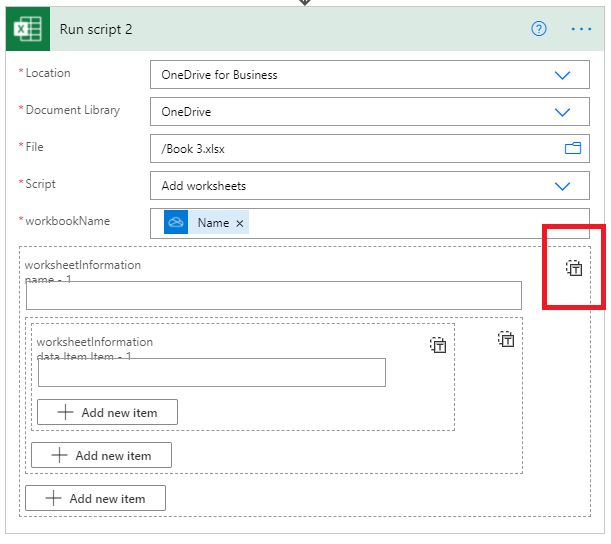
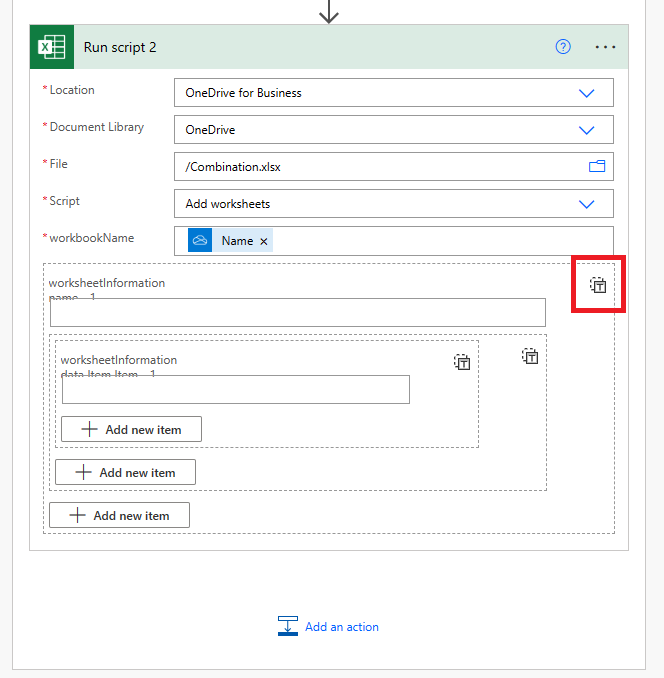
[excel] (Samples) Update Combine Workbooks sample with Troubleshooting guidance (#562)
* Update combine workbooks sample with Troubleshooting guidance

* Grammar fix

* Fix capitalization

* Update docs/resources/samples/combine-worksheets-into-single-workbook.md

* Fix link

diff --git a/docs/resources/samples/combine-worksheets-into-single-workbook.md b/docs/resources/samples/combine-worksheets-into-single-workbook.md
@@ -1,7 +1,7 @@
 ---
 title: Combine workbooks into a single workbook
 description: Learn how to use Office Scripts and Power Automate to create merge worksheets from other workbooks into a single workbook.
-ms.date: 09/17/2021
+ms.date: 12/21/2022
 ms.localizationpriority: medium
 ---
 
@@ -12,13 +12,15 @@ This sample shows how to pull data from multiple workbooks into a single, centra
 > [!IMPORTANT]
 > This sample only copies the values from the other workbooks. It does not preserve formatting, charts, tables, or other objects.
 
-## Scenario
+## Solution
 
-1. Create a new Excel file in your OneDrive and add two scripts from this sample to it.
-1. Create a folder in your OneDrive and add one or more workbooks with data to it.
-1. Build a flow to get all the files that folder.
-1. Use the **Return worksheet data** script to get the data from every worksheet in each of the workbooks.
-1. Use the **Add worksheets** script to create a new worksheet in a single workbook for every worksheet in all the other files.
+1. Create a new Excel file in your OneDrive. The file name "Combination.xlsx" is used in this sample.
+1. Create and save the two scripts from this sample.
+1. Create a folder in your OneDrive and add one or more workbooks with data to it. The folder name "output" is used in this sample.
+1. Build a flow (as described in the [Power Automate flow](#power-automate-flow-combine-worksheets-into-a-single-workbook) section of this article) to perform these steps:
+    1. Get all the files the "output" folder.
+    1. Use the **Return worksheet data** script to get the data from every worksheet in each of the workbooks.
+    1. Use the **Add worksheets** script to create a new worksheet in the "Combination.xlsx" workbook for every worksheet in all the other files.
 
 ## Sample code: Return worksheet data
 
@@ -81,22 +83,21 @@ interface WorksheetData {
 
 1. Sign into [Power Automate](https://flow.microsoft.com) and create a new **Instant cloud flow**.
 1. Choose **Manually trigger a flow** and select **Create**.
-1. Get all the files in the folder. In this example, we'll use a folder named "output". Add a **New step** that uses the **OneDrive for Business** connector and the **List files in folder** action. Provide the folder path that contains the .csv files.
-    * **Folder**: /output
+1. Add a **New step** to get all the workbooks you want to combine from their folder. Use the **OneDrive for Business** connector and the **List files in folder** action. For the **Folder** field, use the file picker to select the "output" folder.
 
     :::image type="content" source="../../images/combine-worksheets-flow-1.png" alt-text="The completed OneDrive for Business connector in Power Automate.":::
-1. Run the **Return worksheet data** script to get all the data from each of the workbooks. Add the **Excel Online (Business)** connector with the **Run script** action. Use the following values for the action. Note that when you add the *Id* for the file, Power Automate will wrap the action in an **Apply to each** control, so the action will be performed on every file.
+1. Add a **New step** to run the **Return worksheet data** script to get all the data from each of the workbooks. Use the **Excel Online (Business)** connector with the **Run script** action. Use the following values for the action. Note that when you add the *Id* for the file, Power Automate will wrap the action in an **Apply to each** control, so the action will be performed on every file.
     * **Location**: OneDrive for Business
     * **Document Library**: OneDrive
     * **File**: *Id* (dynamic content from **List files in folder**)
     * **Script**: Return worksheet data
-1. Run the **Add worksheets** script on the new Excel file you created. This will add the data from all the other workbooks. After the previous **Run script** action and inside the **Apply to each** control, add an **Excel Online (Business)** connector with the **Run script** action. Use the following values for the action.
+1. Add a **New step** to run the **Add worksheets** script on the new Excel file you created. This will add the data from all the other workbooks. After the previous **Run script** action and inside the **Apply to each** control, add an **Excel Online (Business)** connector with the **Run script** action. Use the following values for the action.
     * **Location**: OneDrive for Business
     * **Document Library**: OneDrive
-    * **File**: Your file
+    * **File**: "Combination.xlsx" (your file, as selected by the file picker)
     * **Script**: Add worksheets
     * **workbookName**: *Name* (dynamic content from **List files in folder**)
-    * **worksheetInformation** (after selecting the **Switch to input entire array** button, see the note following the next image): *result* (dynamic content from **Run script**)
+    * **worksheetInformation** (see the note following the next image): *result* (dynamic content from **Run script**)
 
     :::image type="content" source="../../images/combine-worksheets-flow-2.png" alt-text="The two Run script actions inside the Apply to each control.":::
     > [!NOTE]
@@ -104,4 +105,15 @@ interface WorksheetData {
     >
     > :::image type="content" source="../../images/combine-worksheets-flow-3.png" alt-text="The button to switch to input an entire array in a control field input box.":::
 1. Save the flow. Use the **Test** button on the flow editor page or run the flow through your **My flows** tab. Be sure to allow access when prompted.
-1. Your Excel file should now have new worksheets.
+1. The "Combination.xlsx" file should now have new worksheets.
+
+## Troubleshooting
+
+- **A resource with the same name or identifier already exists**: This error likely indicates the "Combination.xlsx" workbook already has a worksheet with the same name. This will happen if you run the flow multiple times with the same workbooks. Create a new workbook each time to store the combined data or use different file names in the "output" folder.
+- **The argument is invalid or missing or has an incorrect format**: This error can mean that the generated  worksheet name doesn't meet [Excel's requirements](https://support.microsoft.com/office/rename-a-worksheet-3f1f7148-ee83-404d-8ef0-9ff99fbad1f9). This is likely because the name is too long. One solution is to replace the code in "Add worksheets" that calls `addWorksheet` with something that shortens the string. Since the workbook name itself might be too long, add an incrementing number to the end of the worksheet name.
+
+  ```TypeScript
+  let worksheetNumber = 1;
+  let worksheetName = `${workbookName}.${value.name}`;
+  let sheet = workbook.addWorksheet(`${worksheetName.substr(0,30)}${worksheetNumber++}`);
+  ```
